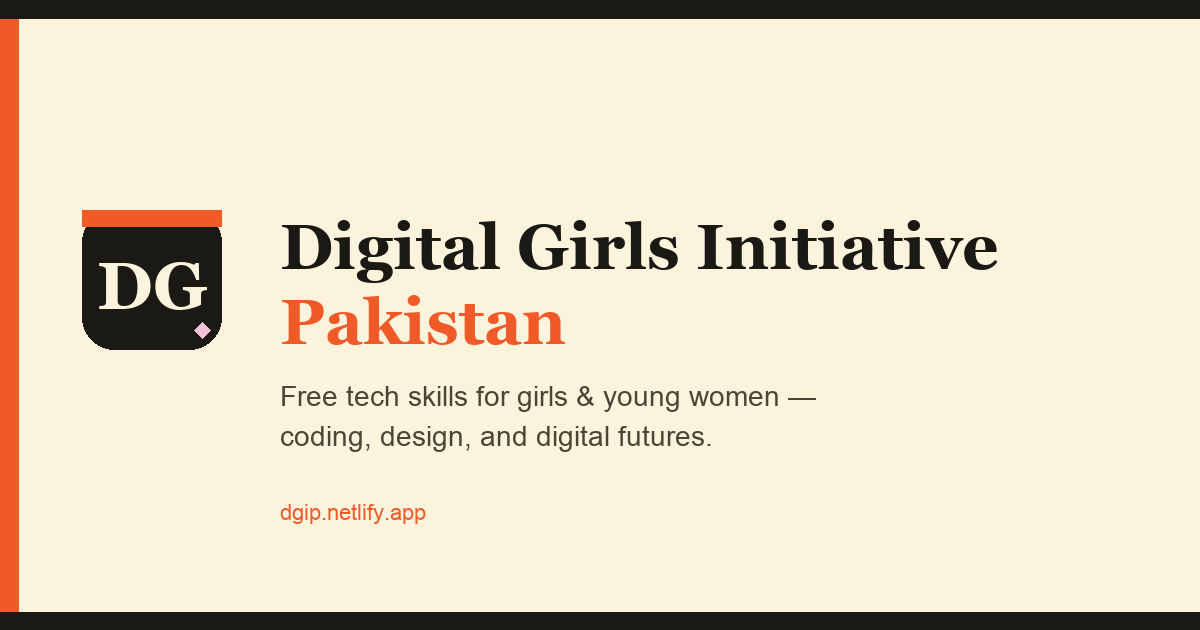
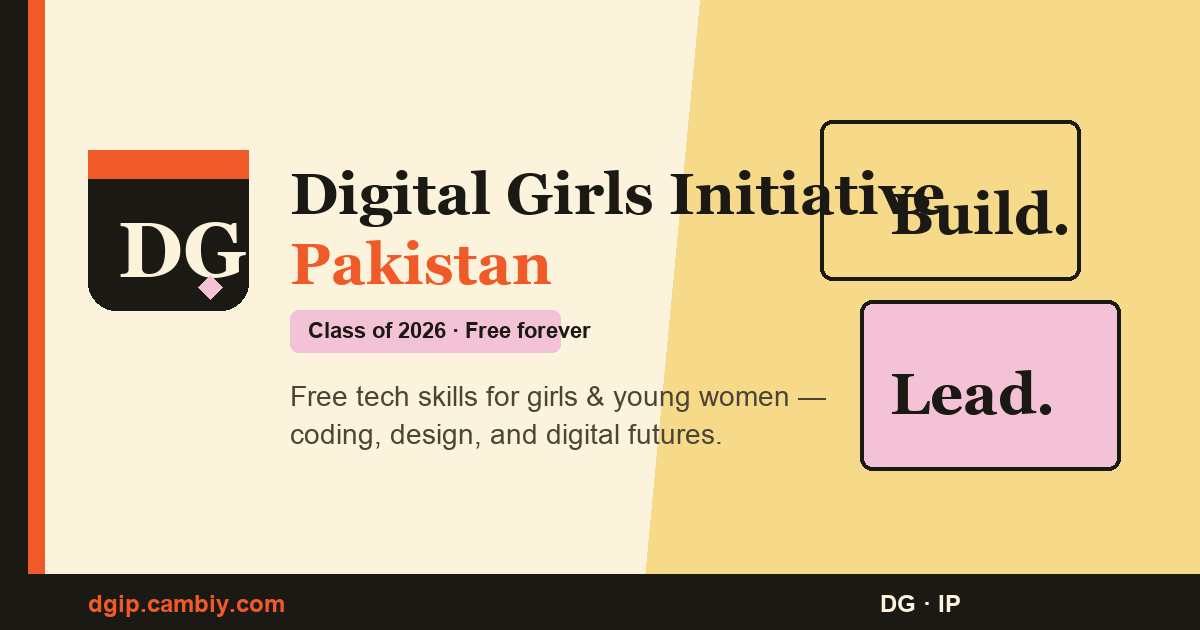
Point Open Graph tags to dgip.cambiy.com with a refreshed share image.
Replace Netlify meta URLs and update the OG banner so social previews resolve on the live domain.

diff --git a/index.html b/index.html
@@ -9,7 +9,7 @@
 <meta name="theme-color" content="#EF5A28">
 <meta name="msapplication-TileColor" content="#EF5A28">
 <meta name="msapplication-config" content="browserconfig.xml">
-<link rel="canonical" href="https://dgip.netlify.app/">
+<link rel="canonical" href="https://dgip.cambiy.com/">
 <link rel="icon" href="assets/favicon.ico" sizes="any">
 <link rel="icon" type="image/svg+xml" href="assets/favicon.svg">
 <link rel="icon" type="image/png" sizes="32x32" href="assets/icons/favicon-32.png">
@@ -21,15 +21,17 @@
 <meta property="og:locale" content="en_PK">
 <meta property="og:title" content="Digital Girls Initiative Pakistan — The future is digital.">
 <meta property="og:description" content="DG·IP is a Pakistan-based non-profit teaching girls and young women free coding, design, and digital skills — from the first line of code to their first job offer.">
-<meta property="og:url" content="https://dgip.netlify.app/">
-<meta property="og:image" content="https://dgip.netlify.app/assets/og-image.png">
+<meta property="og:url" content="https://dgip.cambiy.com/">
+<meta property="og:image" content="https://dgip.cambiy.com/assets/og-image.png">
+<meta property="og:image:type" content="image/png">
+<meta property="og:image:secure_url" content="https://dgip.cambiy.com/assets/og-image.png">
 <meta property="og:image:alt" content="Digital Girls Initiative Pakistan">
 <meta property="og:image:width" content="1200">
 <meta property="og:image:height" content="630">
 <meta name="twitter:card" content="summary_large_image">
 <meta name="twitter:title" content="Digital Girls Initiative Pakistan — The future is digital.">
 <meta name="twitter:description" content="DG·IP is a Pakistan-based non-profit teaching girls and young women free coding, design, and digital skills — from the first line of code to their first job offer.">
-<meta name="twitter:image" content="https://dgip.netlify.app/assets/og-image.png">
+<meta name="twitter:image" content="https://dgip.cambiy.com/assets/og-image.png">
 
 <title>Digital Girls Initiative Pakistan — The future is digital.</title>
 <link rel="preconnect" href="https://fonts.googleapis.com">

diff --git a/certified.html b/certified.html
@@ -9,7 +9,7 @@
 <meta name="theme-color" content="#EF5A28">
 <meta name="msapplication-TileColor" content="#EF5A28">
 <meta name="msapplication-config" content="browserconfig.xml">
-<link rel="canonical" href="https://dgip.netlify.app/certified.html">
+<link rel="canonical" href="https://dgip.cambiy.com/certified.html">
 <link rel="icon" href="assets/favicon.ico" sizes="any">
 <link rel="icon" type="image/svg+xml" href="assets/favicon.svg">
 <link rel="icon" type="image/png" sizes="32x32" href="assets/icons/favicon-32.png">
@@ -21,15 +21,17 @@
 <meta property="og:locale" content="en_PK">
 <meta property="og:title" content="Get Certified | Digital Girls Initiative Pakistan">
 <meta property="og:description" content="Earn a project-verified DG·IP certificate. Build a real capstone, get it reviewed, and receive a physical certificate with a unique verification ID.">
-<meta property="og:url" content="https://dgip.netlify.app/certified.html">
-<meta property="og:image" content="https://dgip.netlify.app/assets/og-image.png">
+<meta property="og:url" content="https://dgip.cambiy.com/certified.html">
+<meta property="og:image" content="https://dgip.cambiy.com/assets/og-image.png">
+<meta property="og:image:type" content="image/png">
+<meta property="og:image:secure_url" content="https://dgip.cambiy.com/assets/og-image.png">
 <meta property="og:image:alt" content="Digital Girls Initiative Pakistan">
 <meta property="og:image:width" content="1200">
 <meta property="og:image:height" content="630">
 <meta name="twitter:card" content="summary_large_image">
 <meta name="twitter:title" content="Get Certified | Digital Girls Initiative Pakistan">
 <meta name="twitter:description" content="Earn a project-verified DG·IP certificate. Build a real capstone, get it reviewed, and receive a physical certificate with a unique verification ID.">
-<meta name="twitter:image" content="https://dgip.netlify.app/assets/og-image.png">
+<meta name="twitter:image" content="https://dgip.cambiy.com/assets/og-image.png">
 
 <title>Get Certified | Digital Girls Initiative Pakistan</title>
 <link rel="preconnect" href="https://fonts.googleapis.com">

diff --git a/digital-literacy.html b/digital-literacy.html
@@ -9,7 +9,7 @@
 <meta name="theme-color" content="#EF5A28">
 <meta name="msapplication-TileColor" content="#EF5A28">
 <meta name="msapplication-config" content="browserconfig.xml">
-<link rel="canonical" href="https://dgip.netlify.app/digital-literacy.html">
+<link rel="canonical" href="https://dgip.cambiy.com/digital-literacy.html">
 <link rel="icon" href="assets/favicon.ico" sizes="any">
 <link rel="icon" type="image/svg+xml" href="assets/favicon.svg">
 <link rel="icon" type="image/png" sizes="32x32" href="assets/icons/favicon-32.png">
@@ -21,15 +21,17 @@
 <meta property="og:locale" content="en_PK">
 <meta property="og:title" content="Digital Literacy &amp; Safety — Digital Girls Initiative Pakistan">
 <meta property="og:description" content="The foundational skills to use the internet confidently, critically, and safely.">
-<meta property="og:url" content="https://dgip.netlify.app/digital-literacy.html">
-<meta property="og:image" content="https://dgip.netlify.app/assets/og-image.png">
+<meta property="og:url" content="https://dgip.cambiy.com/digital-literacy.html">
+<meta property="og:image" content="https://dgip.cambiy.com/assets/og-image.png">
+<meta property="og:image:type" content="image/png">
+<meta property="og:image:secure_url" content="https://dgip.cambiy.com/assets/og-image.png">
 <meta property="og:image:alt" content="Digital Girls Initiative Pakistan">
 <meta property="og:image:width" content="1200">
 <meta property="og:image:height" content="630">
 <meta name="twitter:card" content="summary_large_image">
 <meta name="twitter:title" content="Digital Literacy &amp; Safety — Digital Girls Initiative Pakistan">
 <meta name="twitter:description" content="The foundational skills to use the internet confidently, critically, and safely.">
-<meta name="twitter:image" content="https://dgip.netlify.app/assets/og-image.png">
+<meta name="twitter:image" content="https://dgip.cambiy.com/assets/og-image.png">
 
 <title>Digital Literacy &amp; Safety — Digital Girls Initiative Pakistan</title>
 <link rel="preconnect" href="https://fonts.googleapis.com">

diff --git a/cybersecurity.html b/cybersecurity.html
@@ -9,7 +9,7 @@
 <meta name="theme-color" content="#EF5A28">
 <meta name="msapplication-TileColor" content="#EF5A28">
 <meta name="msapplication-config" content="browserconfig.xml">
-<link rel="canonical" href="https://dgip.netlify.app/cybersecurity.html">
+<link rel="canonical" href="https://dgip.cambiy.com/cybersecurity.html">
 <link rel="icon" href="assets/favicon.ico" sizes="any">
 <link rel="icon" type="image/svg+xml" href="assets/favicon.svg">
 <link rel="icon" type="image/png" sizes="32x32" href="assets/icons/favicon-32.png">
@@ -21,15 +21,17 @@
 <meta property="og:locale" content="en_PK">
 <meta property="og:title" content="Cybersecurity Awareness — Digital Girls Initiative Pakistan">
 <meta property="og:description" content="Protect yourself, your accounts, and your data — and understand the basics of the field.">
-<meta property="og:url" content="https://dgip.netlify.app/cybersecurity.html">
-<meta property="og:image" content="https://dgip.netlify.app/assets/og-image.png">
+<meta property="og:url" content="https://dgip.cambiy.com/cybersecurity.html">
+<meta property="og:image" content="https://dgip.cambiy.com/assets/og-image.png">
+<meta property="og:image:type" content="image/png">
+<meta property="og:image:secure_url" content="https://dgip.cambiy.com/assets/og-image.png">
 <meta property="og:image:alt" content="Digital Girls Initiative Pakistan">
 <meta property="og:image:width" content="1200">
 <meta property="og:image:height" content="630">
 <meta name="twitter:card" content="summary_large_image">
 <meta name="twitter:title" content="Cybersecurity Awareness — Digital Girls Initiative Pakistan">
 <meta name="twitter:description" content="Protect yourself, your accounts, and your data — and understand the basics of the field.">
-<meta name="twitter:image" content="https://dgip.netlify.app/assets/og-image.png">
+<meta name="twitter:image" content="https://dgip.cambiy.com/assets/og-image.png">
 
 <title>Cybersecurity Awareness — Digital Girls Initiative Pakistan</title>
 <link rel="preconnect" href="https://fonts.googleapis.com">

diff --git a/entrepreneurship.html b/entrepreneurship.html
@@ -9,7 +9,7 @@
 <meta name="theme-color" content="#EF5A28">
 <meta name="msapplication-TileColor" content="#EF5A28">
 <meta name="msapplication-config" content="browserconfig.xml">
-<link rel="canonical" href="https://dgip.netlify.app/entrepreneurship.html">
+<link rel="canonical" href="https://dgip.cambiy.com/entrepreneurship.html">
 <link rel="icon" href="assets/favicon.ico" sizes="any">
 <link rel="icon" type="image/svg+xml" href="assets/favicon.svg">
 <link rel="icon" type="image/png" sizes="32x32" href="assets/icons/favicon-32.png">
@@ -21,15 +21,17 @@
 <meta property="og:locale" content="en_PK">
 <meta property="og:title" content="Tech Entrepreneurship — Digital Girls Initiative Pakistan">
 <meta property="og:description" content="Turn a real problem you understand into something you can actually build and launch.">
-<meta property="og:url" content="https://dgip.netlify.app/entrepreneurship.html">
-<meta property="og:image" content="https://dgip.netlify.app/assets/og-image.png">
+<meta property="og:url" content="https://dgip.cambiy.com/entrepreneurship.html">
+<meta property="og:image" content="https://dgip.cambiy.com/assets/og-image.png">
+<meta property="og:image:type" content="image/png">
+<meta property="og:image:secure_url" content="https://dgip.cambiy.com/assets/og-image.png">
 <meta property="og:image:alt" content="Digital Girls Initiative Pakistan">
 <meta property="og:image:width" content="1200">
 <meta property="og:image:height" content="630">
 <meta name="twitter:card" content="summary_large_image">
 <meta name="twitter:title" content="Tech Entrepreneurship — Digital Girls Initiative Pakistan">
 <meta name="twitter:description" content="Turn a real problem you understand into something you can actually build and launch.">
-<meta name="twitter:image" content="https://dgip.netlify.app/assets/og-image.png">
+<meta name="twitter:image" content="https://dgip.cambiy.com/assets/og-image.png">
 
 <title>Tech Entrepreneurship — Digital Girls Initiative Pakistan</title>
 <link rel="preconnect" href="https://fonts.googleapis.com">

diff --git a/games.html b/games.html
@@ -9,7 +9,7 @@
 <meta name="theme-color" content="#EF5A28">
 <meta name="msapplication-TileColor" content="#EF5A28">
 <meta name="msapplication-config" content="browserconfig.xml">
-<link rel="canonical" href="https://dgip.netlify.app/games.html">
+<link rel="canonical" href="https://dgip.cambiy.com/games.html">
 <link rel="icon" href="assets/favicon.ico" sizes="any">
 <link rel="icon" type="image/svg+xml" href="assets/favicon.svg">
 <link rel="icon" type="image/png" sizes="32x32" href="assets/icons/favicon-32.png">
@@ -21,15 +21,17 @@
 <meta property="og:locale" content="en_PK">
 <meta property="og:title" content="Learning Games | Digital Girls Initiative Pakistan">
 <meta property="og:description" content="Play free online learning games for every DG·IP course — HTML, JavaScript, Python, design, cybersecurity, and more.">
-<meta property="og:url" content="https://dgip.netlify.app/games.html">
-<meta property="og:image" content="https://dgip.netlify.app/assets/og-image.png">
+<meta property="og:url" content="https://dgip.cambiy.com/games.html">
+<meta property="og:image" content="https://dgip.cambiy.com/assets/og-image.png">
+<meta property="og:image:type" content="image/png">
+<meta property="og:image:secure_url" content="https://dgip.cambiy.com/assets/og-image.png">
 <meta property="og:image:alt" content="Digital Girls Initiative Pakistan">
 <meta property="og:image:width" content="1200">
 <meta property="og:image:height" content="630">
 <meta name="twitter:card" content="summary_large_image">
 <meta name="twitter:title" content="Learning Games | Digital Girls Initiative Pakistan">
 <meta name="twitter:description" content="Play free online learning games for every DG·IP course — HTML, JavaScript, Python, design, cybersecurity, and more.">
-<meta name="twitter:image" content="https://dgip.netlify.app/assets/og-image.png">
+<meta name="twitter:image" content="https://dgip.cambiy.com/assets/og-image.png">
 
 <title>Learning Games | Digital Girls Initiative Pakistan</title>
 <link rel="preconnect" href="https://fonts.googleapis.com">

diff --git a/javascript.html b/javascript.html
@@ -9,7 +9,7 @@
 <meta name="theme-color" content="#EF5A28">
 <meta name="msapplication-TileColor" content="#EF5A28">
 <meta name="msapplication-config" content="browserconfig.xml">
-<link rel="canonical" href="https://dgip.netlify.app/javascript.html">
+<link rel="canonical" href="https://dgip.cambiy.com/javascript.html">
 <link rel="icon" href="assets/favicon.ico" sizes="any">
 <link rel="icon" type="image/svg+xml" href="assets/favicon.svg">
 <link rel="icon" type="image/png" sizes="32x32" href="assets/icons/favicon-32.png">
@@ -21,15 +21,17 @@
 <meta property="og:locale" content="en_PK">
 <meta property="og:title" content="JavaScript Fundamentals — Digital Girls Initiative Pakistan">
 <meta property="og:description" content="The language that makes websites interactive — from a button click to a full web app.">
-<meta property="og:url" content="https://dgip.netlify.app/javascript.html">
-<meta property="og:image" content="https://dgip.netlify.app/assets/og-image.png">
+<meta property="og:url" content="https://dgip.cambiy.com/javascript.html">
+<meta property="og:image" content="https://dgip.cambiy.com/assets/og-image.png">
+<meta property="og:image:type" content="image/png">
+<meta property="og:image:secure_url" content="https://dgip.cambiy.com/assets/og-image.png">
 <meta property="og:image:alt" content="Digital Girls Initiative Pakistan">
 <meta property="og:image:width" content="1200">
 <meta property="og:image:height" content="630">
 <meta name="twitter:card" content="summary_large_image">
 <meta name="twitter:title" content="JavaScript Fundamentals — Digital Girls Initiative Pakistan">
 <meta name="twitter:description" content="The language that makes websites interactive — from a button click to a full web app.">
-<meta name="twitter:image" content="https://dgip.netlify.app/assets/og-image.png">
+<meta name="twitter:image" content="https://dgip.cambiy.com/assets/og-image.png">
 
 <title>JavaScript Fundamentals — Digital Girls Initiative Pakistan</title>
 <link rel="preconnect" href="https://fonts.googleapis.com">

diff --git a/competitions.html b/competitions.html
@@ -9,7 +9,7 @@
 <meta name="theme-color" content="#EF5A28">
 <meta name="msapplication-TileColor" content="#EF5A28">
 <meta name="msapplication-config" content="browserconfig.xml">
-<link rel="canonical" href="https://dgip.netlify.app/competitions.html">
+<link rel="canonical" href="https://dgip.cambiy.com/competitions.html">
 <link rel="icon" href="assets/favicon.ico" sizes="any">
 <link rel="icon" type="image/svg+xml" href="assets/favicon.svg">
 <link rel="icon" type="image/png" sizes="32x32" href="assets/icons/favicon-32.png">
@@ -21,15 +21,17 @@
 <meta property="og:locale" content="en_PK">
 <meta property="og:title" content="Competitions | Digital Girls Initiative Pakistan">
 <meta property="og:description" content="Join free DG·IP coding competitions and sprints. Build projects, win recognition, and get featured.">
-<meta property="og:url" content="https://dgip.netlify.app/competitions.html">
-<meta property="og:image" content="https://dgip.netlify.app/assets/og-image.png">
+<meta property="og:url" content="https://dgip.cambiy.com/competitions.html">
+<meta property="og:image" content="https://dgip.cambiy.com/assets/og-image.png">
+<meta property="og:image:type" content="image/png">
+<meta property="og:image:secure_url" content="https://dgip.cambiy.com/assets/og-image.png">
 <meta property="og:image:alt" content="Digital Girls Initiative Pakistan">
 <meta property="og:image:width" content="1200">
 <meta property="og:image:height" content="630">
 <meta name="twitter:card" content="summary_large_image">
 <meta name="twitter:title" content="Competitions | Digital Girls Initiative Pakistan">
 <meta name="twitter:description" content="Join free DG·IP coding competitions and sprints. Build projects, win recognition, and get featured.">
-<meta name="twitter:image" content="https://dgip.netlify.app/assets/og-image.png">
+<meta name="twitter:image" content="https://dgip.cambiy.com/assets/og-image.png">
 
 <title>Competitions | Digital Girls Initiative Pakistan</title>
 <link rel="preconnect" href="https://fonts.googleapis.com">

diff --git a/html-css.html b/html-css.html
@@ -9,7 +9,7 @@
 <meta name="theme-color" content="#EF5A28">
 <meta name="msapplication-TileColor" content="#EF5A28">
 <meta name="msapplication-config" content="browserconfig.xml">
-<link rel="canonical" href="https://dgip.netlify.app/html-css.html">
+<link rel="canonical" href="https://dgip.cambiy.com/html-css.html">
 <link rel="icon" href="assets/favicon.ico" sizes="any">
 <link rel="icon" type="image/svg+xml" href="assets/favicon.svg">
 <link rel="icon" type="image/png" sizes="32x32" href="assets/icons/favicon-32.png">
@@ -21,15 +21,17 @@
 <meta property="og:locale" content="en_PK">
 <meta property="og:title" content="HTML &amp; CSS — Digital Girls Initiative Pakistan">
 <meta property="og:description" content="The building blocks of every website you&#x27;ve ever visited — structure with HTML, style with CSS.">
-<meta property="og:url" content="https://dgip.netlify.app/html-css.html">
-<meta property="og:image" content="https://dgip.netlify.app/assets/og-image.png">
+<meta property="og:url" content="https://dgip.cambiy.com/html-css.html">
+<meta property="og:image" content="https://dgip.cambiy.com/assets/og-image.png">
+<meta property="og:image:type" content="image/png">
+<meta property="og:image:secure_url" content="https://dgip.cambiy.com/assets/og-image.png">
 <meta property="og:image:alt" content="Digital Girls Initiative Pakistan">
 <meta property="og:image:width" content="1200">
 <meta property="og:image:height" content="630">
 <meta name="twitter:card" content="summary_large_image">
 <meta name="twitter:title" content="HTML &amp; CSS — Digital Girls Initiative Pakistan">
 <meta name="twitter:description" content="The building blocks of every website you&#x27;ve ever visited — structure with HTML, style with CSS.">
-<meta name="twitter:image" content="https://dgip.netlify.app/assets/og-image.png">
+<meta name="twitter:image" content="https://dgip.cambiy.com/assets/og-image.png">
 
 <title>HTML &amp; CSS — Digital Girls Initiative Pakistan</title>
 <link rel="preconnect" href="https://fonts.googleapis.com">

diff --git a/data-science.html b/data-science.html
@@ -9,7 +9,7 @@
 <meta name="theme-color" content="#EF5A28">
 <meta name="msapplication-TileColor" content="#EF5A28">
 <meta name="msapplication-config" content="browserconfig.xml">
-<link rel="canonical" href="https://dgip.netlify.app/data-science.html">
+<link rel="canonical" href="https://dgip.cambiy.com/data-science.html">
 <link rel="icon" href="assets/favicon.ico" sizes="any">
 <link rel="icon" type="image/svg+xml" href="assets/favicon.svg">
 <link rel="icon" type="image/png" sizes="32x32" href="assets/icons/favicon-32.png">
@@ -21,15 +21,17 @@
 <meta property="og:locale" content="en_PK">
 <meta property="og:title" content="Data Science Basics — Digital Girls Initiative Pakistan">
 <meta property="og:description" content="Turn raw numbers into real insight — the skillset behind every data-driven decision.">
-<meta property="og:url" content="https://dgip.netlify.app/data-science.html">
-<meta property="og:image" content="https://dgip.netlify.app/assets/og-image.png">
+<meta property="og:url" content="https://dgip.cambiy.com/data-science.html">
+<meta property="og:image" content="https://dgip.cambiy.com/assets/og-image.png">
+<meta property="og:image:type" content="image/png">
+<meta property="og:image:secure_url" content="https://dgip.cambiy.com/assets/og-image.png">
 <meta property="og:image:alt" content="Digital Girls Initiative Pakistan">
 <meta property="og:image:width" content="1200">
 <meta property="og:image:height" content="630">
 <meta name="twitter:card" content="summary_large_image">
 <meta name="twitter:title" content="Data Science Basics — Digital Girls Initiative Pakistan">
 <meta name="twitter:description" content="Turn raw numbers into real insight — the skillset behind every data-driven decision.">
-<meta name="twitter:image" content="https://dgip.netlify.app/assets/og-image.png">
+<meta name="twitter:image" content="https://dgip.cambiy.com/assets/og-image.png">
 
 <title>Data Science Basics — Digital Girls Initiative Pakistan</title>
 <link rel="preconnect" href="https://fonts.googleapis.com">

diff --git a/signup.html b/signup.html
@@ -9,7 +9,7 @@
 <meta name="theme-color" content="#EF5A28">
 <meta name="msapplication-TileColor" content="#EF5A28">
 <meta name="msapplication-config" content="browserconfig.xml">
-<link rel="canonical" href="https://dgip.netlify.app/signup.html">
+<link rel="canonical" href="https://dgip.cambiy.com/signup.html">
 <link rel="icon" href="assets/favicon.ico" sizes="any">
 <link rel="icon" type="image/svg+xml" href="assets/favicon.svg">
 <link rel="icon" type="image/png" sizes="32x32" href="assets/icons/favicon-32.png">
@@ -21,15 +21,17 @@
 <meta property="og:locale" content="en_PK">
 <meta property="og:title" content="Sign Up — Digital Girls Initiative Pakistan">
 <meta property="og:description" content="Join DG·IP free in two minutes. No cost, no experience required — get matched to a skill track and cohort.">
-<meta property="og:url" content="https://dgip.netlify.app/signup.html">
-<meta property="og:image" content="https://dgip.netlify.app/assets/og-image.png">
+<meta property="og:url" content="https://dgip.cambiy.com/signup.html">
+<meta property="og:image" content="https://dgip.cambiy.com/assets/og-image.png">
+<meta property="og:image:type" content="image/png">
+<meta property="og:image:secure_url" content="https://dgip.cambiy.com/assets/og-image.png">
 <meta property="og:image:alt" content="Digital Girls Initiative Pakistan">
 <meta property="og:image:width" content="1200">
 <meta property="og:image:height" content="630">
 <meta name="twitter:card" content="summary_large_image">
 <meta name="twitter:title" content="Sign Up — Digital Girls Initiative Pakistan">
 <meta name="twitter:description" content="Join DG·IP free in two minutes. No cost, no experience required — get matched to a skill track and cohort.">
-<meta name="twitter:image" content="https://dgip.netlify.app/assets/og-image.png">
+<meta name="twitter:image" content="https://dgip.cambiy.com/assets/og-image.png">
 
 <title>Sign Up — Digital Girls Initiative Pakistan</title>
 <link rel="preconnect" href="https://fonts.googleapis.com">

diff --git a/design.html b/design.html
@@ -9,7 +9,7 @@
 <meta name="theme-color" content="#EF5A28">
 <meta name="msapplication-TileColor" content="#EF5A28">
 <meta name="msapplication-config" content="browserconfig.xml">
-<link rel="canonical" href="https://dgip.netlify.app/design.html">
+<link rel="canonical" href="https://dgip.cambiy.com/design.html">
 <link rel="icon" href="assets/favicon.ico" sizes="any">
 <link rel="icon" type="image/svg+xml" href="assets/favicon.svg">
 <link rel="icon" type="image/png" sizes="32x32" href="assets/icons/favicon-32.png">
@@ -21,15 +21,17 @@
 <meta property="og:locale" content="en_PK">
 <meta property="og:title" content="Graphic Design &amp; UI/UX — Digital Girls Initiative Pakistan">
 <meta property="og:description" content="Learn to design things people can actually understand and enjoy using.">
-<meta property="og:url" content="https://dgip.netlify.app/design.html">
-<meta property="og:image" content="https://dgip.netlify.app/assets/og-image.png">
+<meta property="og:url" content="https://dgip.cambiy.com/design.html">
+<meta property="og:image" content="https://dgip.cambiy.com/assets/og-image.png">
+<meta property="og:image:type" content="image/png">
+<meta property="og:image:secure_url" content="https://dgip.cambiy.com/assets/og-image.png">
 <meta property="og:image:alt" content="Digital Girls Initiative Pakistan">
 <meta property="og:image:width" content="1200">
 <meta property="og:image:height" content="630">
 <meta name="twitter:card" content="summary_large_image">
 <meta name="twitter:title" content="Graphic Design &amp; UI/UX — Digital Girls Initiative Pakistan">
 <meta name="twitter:description" content="Learn to design things people can actually understand and enjoy using.">
-<meta name="twitter:image" content="https://dgip.netlify.app/assets/og-image.png">
+<meta name="twitter:image" content="https://dgip.cambiy.com/assets/og-image.png">
 
 <title>Graphic Design &amp; UI/UX — Digital Girls Initiative Pakistan</title>
 <link rel="preconnect" href="https://fonts.googleapis.com">
